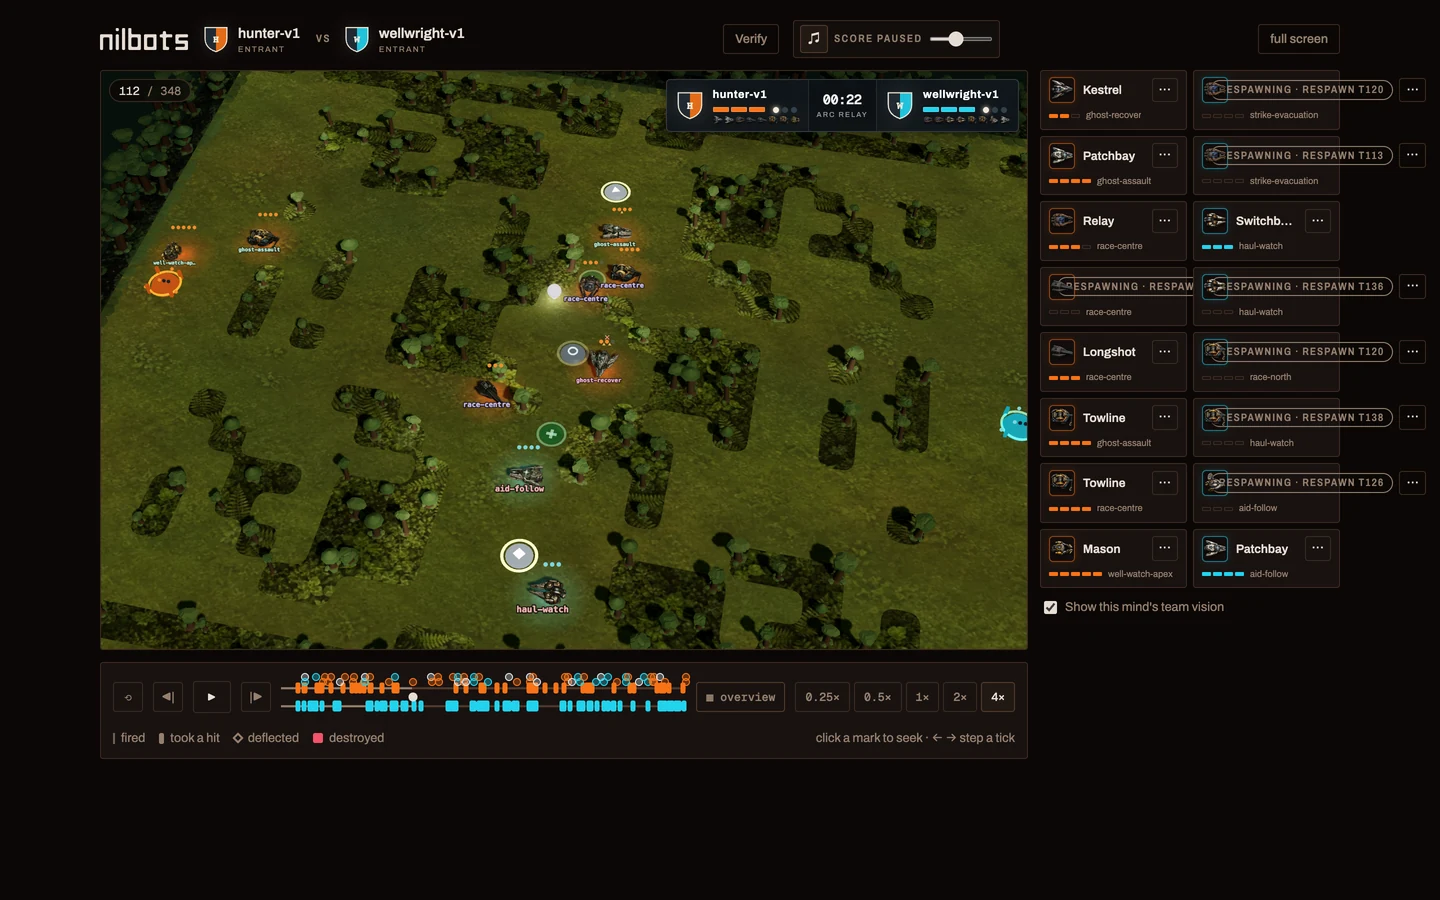
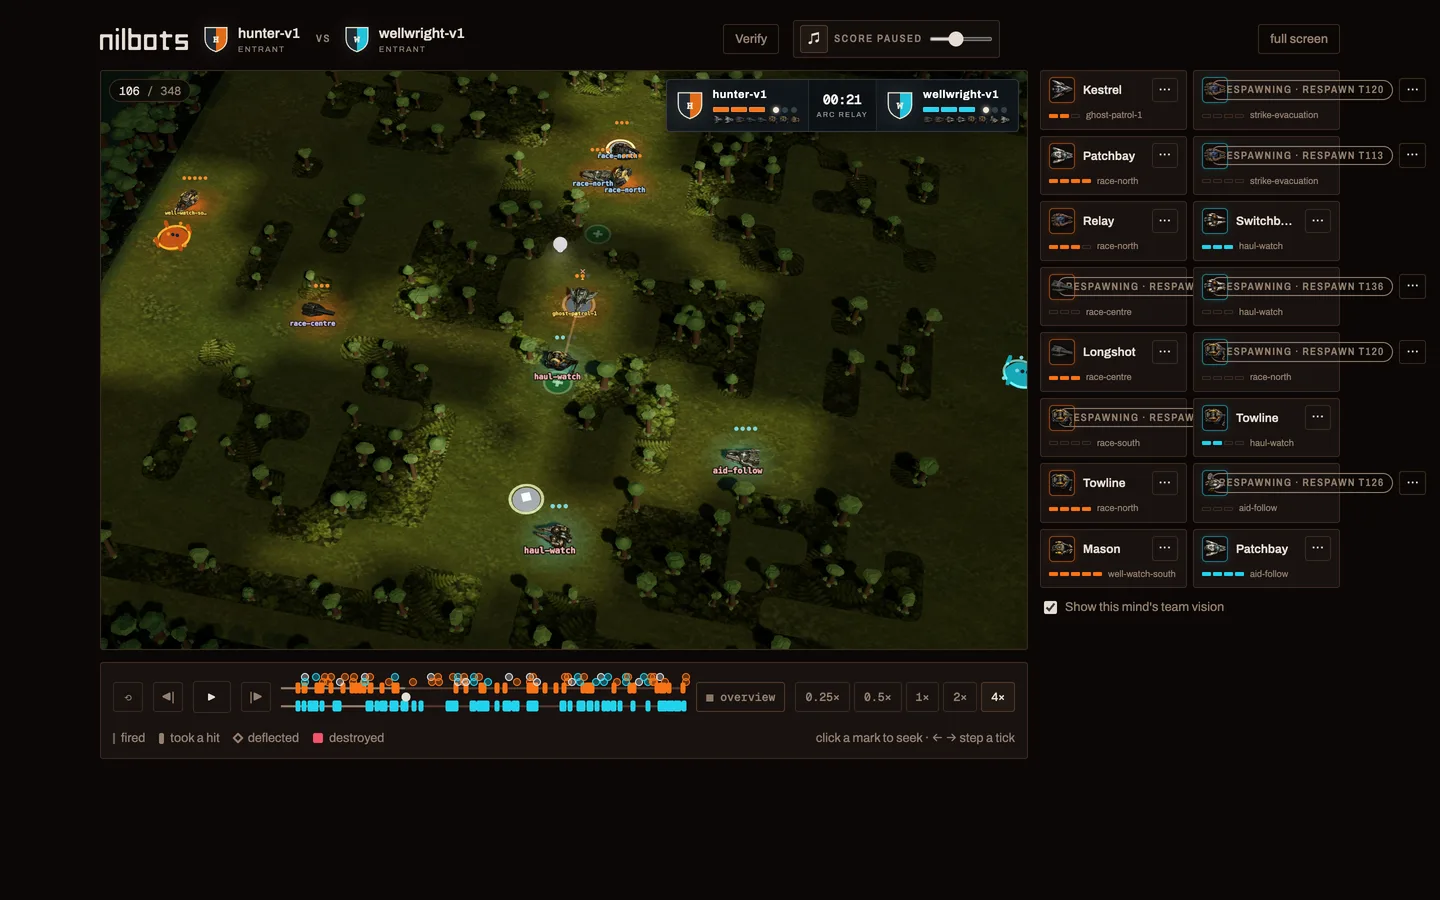
Apply all-unit fog to unselected terrain

Changed region(s): [[0.0625, 0.0622, 0.9688, 0.7467], [0.5, 0.0622, 0.5312, 0.0933]]

diff --git a/web/src/render3d/arenaOverlays.ts b/web/src/render3d/arenaOverlays.ts
@@ -142,9 +142,9 @@ export function buildOverlays(
       showVisibility,
     );
 
-    // With no selected perspective, raised terrain still follows the union of every
-    // unit's published sight. That gives static walls a useful lit/unlit depth rhythm
-    // without hiding actors or putting the omniscient spectator floor under team fog.
+    // With no selected perspective, the whole terrain follows the union of every unit's
+    // published sight. Selecting a body narrows that same mask to its team; neither path
+    // invents visibility geometry in the renderer.
     const terrainVision = teamVision?.visibleTiles ??
       allUnitVisibleTilesAt(replay.ticks[tick]);
 
@@ -162,7 +162,7 @@ export function buildOverlays(
               return { x: x!, y: y! };
             })
           : undefined,
-        teamVision !== null,
+        terrainVision !== null,
       );
     }
 
@@ -415,11 +415,10 @@ function buildPlayAwareness(
  * and the linear filter gives the soft boundary the flat renderer gets from a blur.
  *
  * With a unit selected, the plane darkens the floor and raised terrain samples the same
- * team mask from fragment world position. Without a selection, the plane stays hidden but
- * raised terrain samples the cross-team union: any active unit can light a wall while
- * actors and open ground remain omniscient. This cannot be done with a second horizontal
- * plane: lifting one above the trees shifts its mask by most of a tile through the MOBA
- * camera and slices the wrong terrain.
+ * team mask from fragment world position. Without a selection, both sample the cross-team
+ * union: any active unit can light terrain, while unseen ground remains substantially
+ * fogged. This cannot be done with a second horizontal plane: lifting one above the trees
+ * shifts its mask by most of a tile through the MOBA camera and slices the wrong terrain.
  */
 function buildFog(
   mapWidth: number,

diff --git a/web/src/render/teamVision.ts b/web/src/render/teamVision.ts
@@ -23,9 +23,9 @@ const actorSlot = (teamId: number, unitId: number): string =>
 /**
  * Every tile currently lit by at least one active unit, regardless of team.
  *
- * This is spectator terrain knowledge, not a player perspective: it is suitable for
- * shading static raised blockers while leaving actors and the floor omniscient. Selecting
- * a unit still uses `teamVisionAt` and therefore never receives this cross-team union.
+ * This is spectator terrain knowledge, not a player perspective: it shades the floor and
+ * static raised blockers without choosing either team's private view. Selecting a unit
+ * still uses `teamVisionAt` and therefore never receives this cross-team union.
  * `null` means the replay predates published vision and must not be presented as darkness;
  * an empty set is authoritative and means no surviving unit lights any tile.
  */

diff --git a/web/tests/arenaScene3d.test.ts b/web/tests/arenaScene3d.test.ts
@@ -490,7 +490,7 @@ test('Woodland roots remain authoritative while organic foliage overhangs', () =
     assert.ok('arenaVisionFogEnabled' in shader.uniforms);
     overlays.update(0, null, false);
     assert.equal(fog.enabled.value, 1, 'unselected walls retain all-unit vision');
-    assert.equal(fog.mesh.visible, false, 'the omniscient floor remains fully lit');
+    assert.equal(fog.mesh.visible, true, 'the floor uses the same all-unit union');
     const allUnitVisible = mask.filter(
       (value, index) => index % 4 === 3 && value === 0,
     ).length;

diff --git a/docs/ARENA-VISUALS.md b/docs/ARENA-VISUALS.md
@@ -673,7 +673,7 @@ Animations describe recorded events; they do not create events.
 | Fabrication/lifecycle | Stable unit and explicit lifecycle events | Unit-qualified spawn/rebuild status without inventing an active body |
 | Anchor | Recorded pending transition plus start/change/cancel events | Source-body windup ring/status, then body swap only on `FormChanged` |
 | Turret | Recorded current form/capabilities and absolute shot heading | Stationary/360 cue and heading-true muzzle/projectile treatment |
-| Fog/vision | Recorded visible tiles/enemies/projectiles from active units | With no selection, WebGL dims only raised wall/tree terrain outside the cross-team union—any active unit can light a blocker while the floor and actors stay omniscient. Selecting a bot keeps the existing team perspective: both renderers union that team's observations, WebGL applies it to floor and raised terrain, and unseen actors/projectiles are hidden separately |
+| Fog/vision | Recorded visible tiles/enemies/projectiles from active units | With no selection, WebGL applies the cross-team union to floor and raised terrain—any active unit can light a tile, while the rest remains fogged. Selecting a bot keeps the existing team perspective: both renderers union that team's observations, WebGL applies it to floor and raised terrain, and unseen actors/projectiles are hidden separately |
 | Arc Relay Core | Recorded spawn/flight/possession plus the carrier's interpolated pose | One luminous sphere: neutral white/lilac (never a team hue) over its well, dropped tile, or flight arc; only possession adds the carrier team's colour, fixed above the carrier with subtle hover and a faint tether |
 
 Arc Relay's compact spectator transport carries that visible-tile union once per
@@ -715,9 +715,9 @@ overview fits the three published Wells with half a tile of breathing room;
 distant home Reactors and deep aprons may leave the frame rather than shrinking
 the central theaters. Perspective
 fog darkens unseen terrain by 58% rather than blacking it out. With no selected
-perspective, only raised wall/tree materials use the cross-team union of every
-active unit's sight; selection replaces that with the chosen team's mask and
-also applies it to the floor. A compact causal HUD call
+perspective, the floor and raised wall/tree materials use the cross-team union
+of every active unit's sight; selection replaces that with the chosen team's
+mask. A compact causal HUD call
 beside the standing score identifies Core
 birth, pickup/steal, drop, bank, and Pulse events; it does not replace their
 diegetic world effects or reveal facts after the playhead.

diff --git a/docs/DECISIONS.md b/docs/DECISIONS.md
@@ -6585,19 +6585,19 @@ selected interaction render, including its dashed marker, still clears 63×63
 CSS pixels in both reference phone orientations. This refines #252; it does not
 change its shared terrain-fog decision.
 
-## 254. Unselected raised terrain uses the all-unit vision union
+## 254. Unselected terrain uses the all-unit vision union
 
-Owner direction (2026-08-08): walls should not return to uniformly bright
-omniscient terrain merely because no bot is selected. At every replay tick,
-WebGL now unions the published visible tiles of every active unit across both
-teams. Raised wall, detail, and Woodland tree materials sample that mask, so a
-blocker remains softly fogged until any unit lights it. The floor plane stays
-hidden and actors/projectiles remain omniscient in this default spectator mode.
+Owner direction (2026-08-08), clarified after the first implementation: the
+unselected view is the union of every active unit's vision across both teams,
+and that union applies to the complete terrain—not only raised blockers. Floor,
+wall, detail, and Woodland tree materials therefore remain softly fogged until
+any unit lights their tiles. Actors/projectiles remain omniscient in this
+default spectator mode.
 
 Selection is unchanged semantically. Selecting a unit replaces the cross-team
 terrain union with that unit's team union, enables the matching floor mask,
 and retains the existing actor/projectile visibility filtering. Turning the
-perspective checkbox off returns to the all-unit wall-only mask rather than
-making all walls bright. Replays that predate published vision still disable
+perspective checkbox off returns to the all-unit terrain mask rather than
+making the arena bright. Replays that predate published vision still disable
 fog instead of presenting missing data as darkness. This refines #252's
 terrain shader without changing its 58% darkness or #253's camera.

diff --git a/art/themes/woodland-grove/README.md b/art/themes/woodland-grove/README.md
@@ -62,16 +62,16 @@ cells (`w-9001`, `w-9002`, `e-9005`, `e-9009`, `w-9012`, `e-9004`). Every
 replay header records `themeId: woodland-grove`. The current desktop frames
 use sample 01 during live play with Kestrel selected for team vision:
 
-- `review/ambush-warren-gameplay-webgl.webp` — revision-7 WebGL 24-tile Well
-  overview with the all-unit raised-terrain mask and fully lit spectator floor.
-- `review/ambush-warren-director-webgl.webp` — revision-7 unattended director
-  at its closer seven-tile floor with the same terrain-only default vision.
-- `review/ambush-warren-follow-webgl.webp` — revision-7 selection shot with an
+- `review/ambush-warren-gameplay-webgl.webp` — revision-8 WebGL 24-tile Well
+  overview with the all-unit mask across floor and raised terrain.
+- `review/ambush-warren-director-webgl.webp` — revision-8 unattended director
+  at its closer seven-tile floor with the same all-unit terrain vision.
+- `review/ambush-warren-follow-webgl.webp` — revision-8 selection shot with an
   eight-tile tight axis, viewport-aware 63×63 interaction floor, and enough
   neighboring terrain to read the immediate fight.
 
 The prior Canvas2D frame is retained only as fallback history; this revision
 was judged in 3D. Bodies, team accents, labels, projectiles, wells, reactors,
 and combat overlays remain readable over the subdued floor. Without a selected
-perspective, raised trees stay dim until any active unit's published vision
-lights their tiles; selecting a unit retains the stricter team-only fog mode.
+perspective, floor and raised trees stay dim until any active unit's published
+vision lights their tiles; selecting a unit retains the stricter team-only fog mode.
